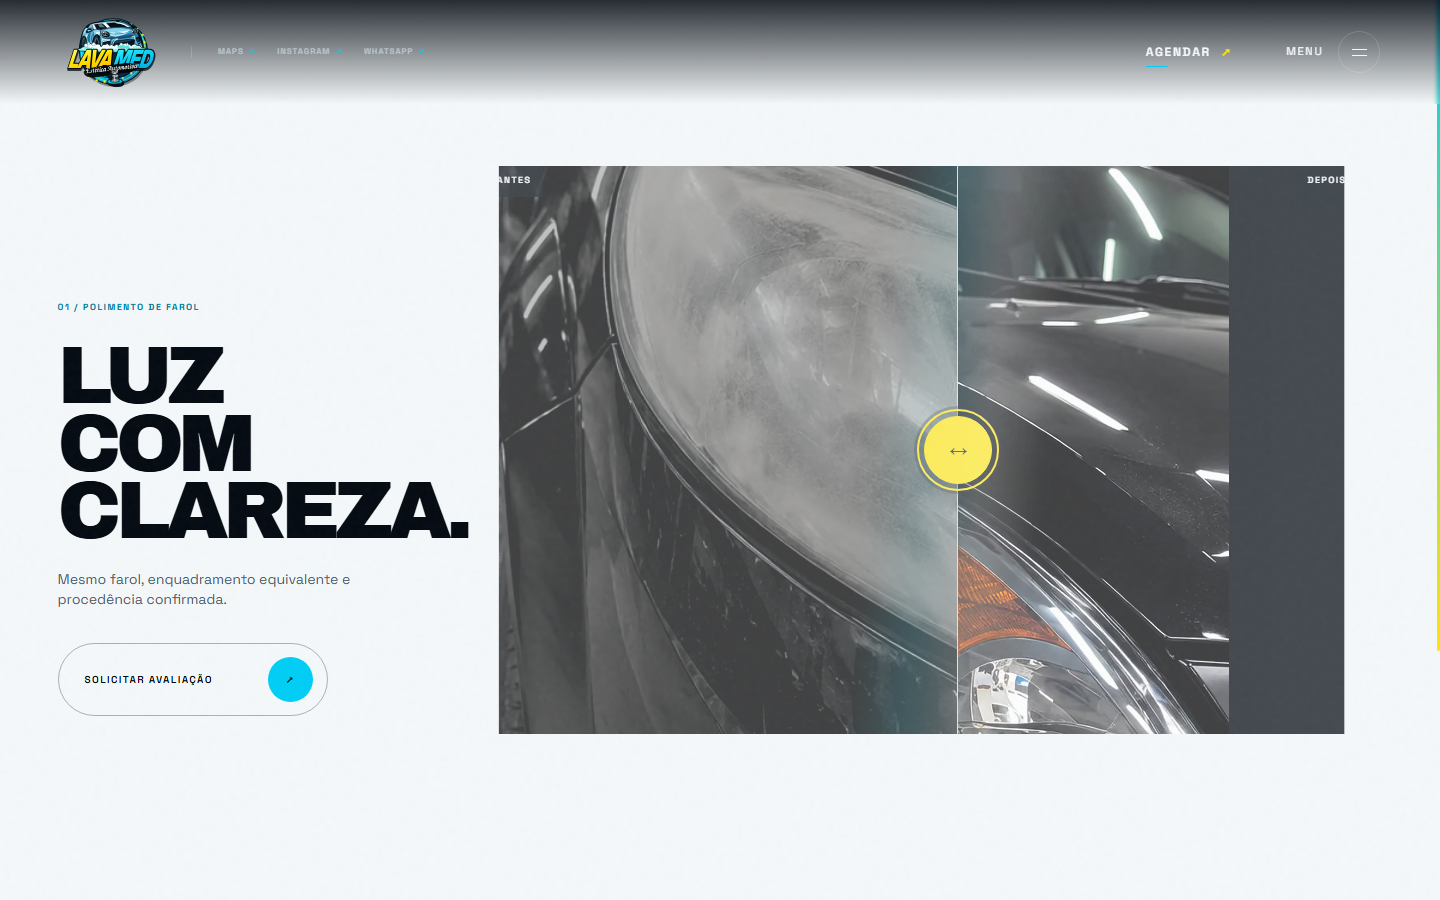
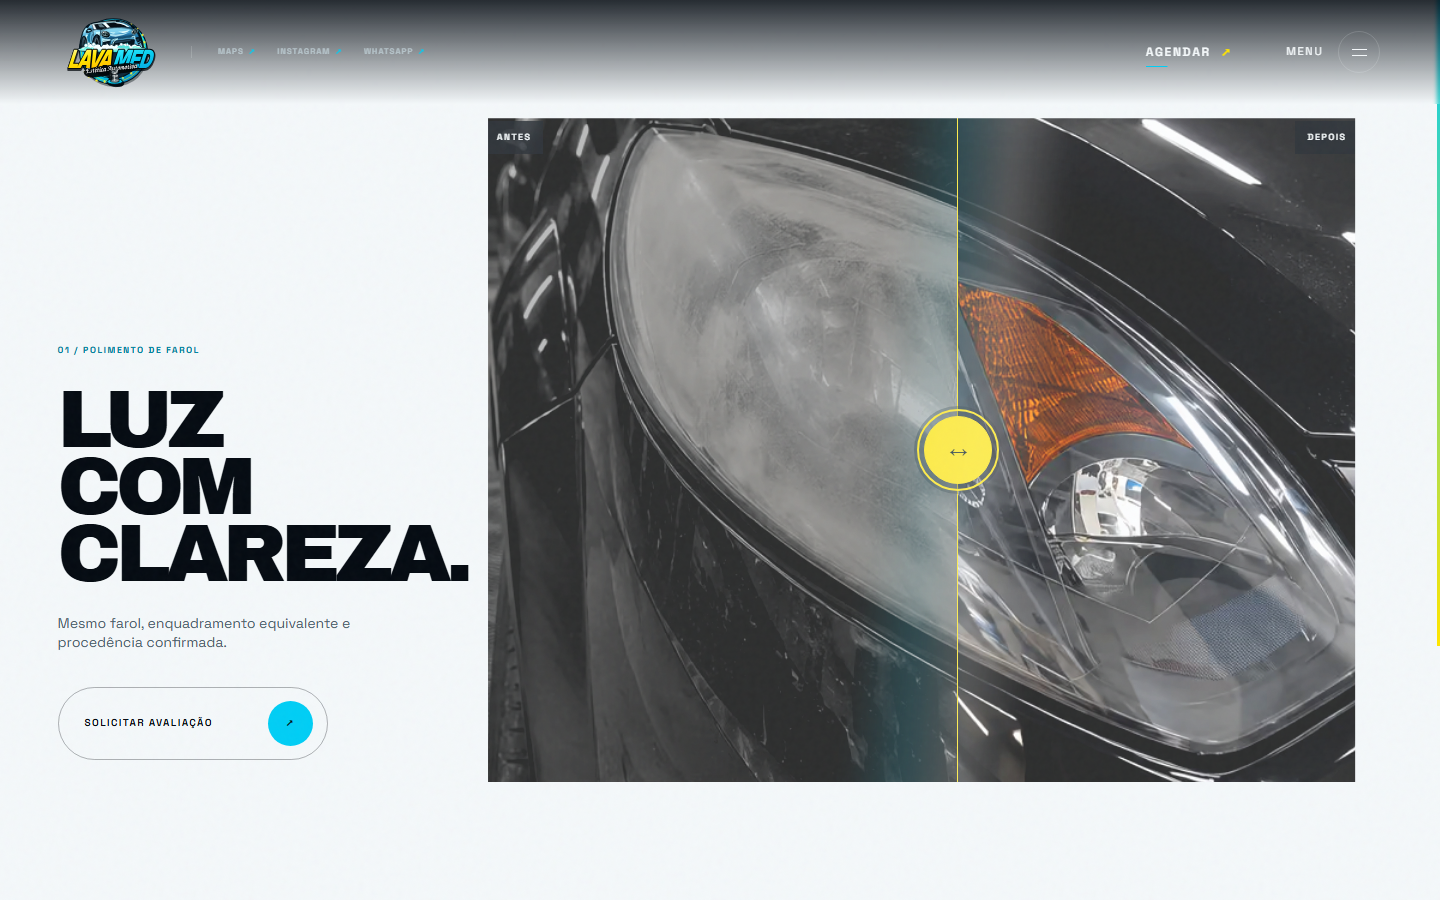
Atualizando 2

diff --git a/src/assets/site.css b/src/assets/site.css
@@ -189,7 +189,7 @@ picture { display: contents; }
 .liquid-intro h2 { color: var(--ink); }.liquid-intro h2 em { color: var(--ink); }
 .liquid-intro>p { grid-column: 2; width: min(540px,80%); margin: 52px 0 0 auto; color: #073a53; }
 .compare { position: relative; width: min(1450px,90vw); height: min(70vw,790px); min-height: 430px; margin: 0 auto; overflow: hidden; background: var(--ink); cursor: ew-resize; touch-action: pan-y; clip-path: polygon(0 0, 96% 0, 100% 7%, 100% 100%, 0 100%); }
-.compare>img,.compare-overlay img { width: 100%; height: 100%; object-fit: cover; user-select: none; pointer-events: none; }
+.compare img { width: 100%; height: 100%; object-fit: cover; user-select: none; pointer-events: none; }
 .compare-base { filter: saturate(1.15) contrast(1.05); }
 .compare-overlay { position: absolute; inset: 0; width: var(--position); overflow: hidden; border-right: 1px solid var(--yellow); }
 .compare-overlay img { max-width: none; width: min(1450px,90vw); filter: grayscale(.88) contrast(1.2) brightness(.68); }
@@ -204,7 +204,7 @@ picture { display: contents; }
 .results-showcase{position:relative;padding:clamp(105px,12vw,195px) 0;overflow:hidden;background:var(--ice);color:var(--ink)}
 .results-heading{display:grid;grid-template-columns:1fr 3fr;gap:40px;padding:0 clamp(22px,7vw,120px)}.results-heading .chapter-label{color:#5e6d74}.results-heading .chapter-label span{border-color:rgba(5,11,18,.2);color:#007f9d}.results-heading h2{margin:0;font:400 clamp(54px,8.4vw,140px)/.82 var(--display);letter-spacing:-.08em;text-transform:uppercase}.results-heading h2 em{color:var(--petrol);font-style:normal}.results-heading>div:last-child>p{width:min(520px,74%);margin:44px 0 0 auto;color:#3e535d;font-size:clamp(14px,1.25vw,18px)}
 .results-feature{--compare-width:min(64vw,1050px);display:grid;grid-template-columns:minmax(270px,1fr) var(--compare-width);align-items:end;gap:clamp(32px,5vw,82px);width:min(1720px,calc(100vw - clamp(44px,8vw,140px)));margin:clamp(90px,11vw,170px) auto 0;scroll-margin-top:var(--header)}.results-copy{padding:0 0 clamp(12px,3vw,44px)}.results-copy>span{color:#0085a3;font-size:9px;font-weight:700;letter-spacing:.16em;text-transform:uppercase}.results-copy h3{margin:24px 0 28px;font:400 clamp(43px,5.7vw,90px)/.82 var(--display);letter-spacing:-.07em;text-transform:uppercase}.results-copy>p{max-width:360px;margin:0 0 34px;color:#4d626c;font-size:14px}.results-copy .cta-pill{width:fit-content;border-color:rgba(5,11,18,.3);color:var(--ink)}
-.results-feature .compare{width:var(--compare-width);height:min(43vw,640px);min-height:430px;margin:0;box-shadow:0 28px 85px rgba(5,11,18,.18)}.results-feature .compare-overlay img{width:var(--compare-width)}.results-feature .compare-label{background:rgba(5,11,18,.82)}.results-feature--cabin{grid-template-columns:var(--compare-width) minmax(270px,1fr)}.results-feature--cabin .results-copy{order:2}.results-feature--cabin .compare{order:1}.results-feature--headlight .compare img{object-position:center}.results-feature--cabin .compare img{object-position:center}.results-link{margin-right:clamp(22px,7vw,120px);color:var(--ink)}
+.results-feature .compare{width:var(--compare-width);height:min(49vw,720px);min-height:460px;margin:0;box-shadow:0 28px 85px rgba(5,11,18,.18)}.results-feature .compare-overlay img{width:var(--compare-width)}.results-feature .compare-label{background:rgba(5,11,18,.82)}.results-feature--cabin{grid-template-columns:var(--compare-width) minmax(270px,1fr)}.results-feature--cabin .results-copy{order:2}.results-feature--cabin .compare{order:1}.results-feature--headlight .compare img{object-position:center}.results-feature--cabin .compare img{object-position:center}.results-link{margin-right:clamp(22px,7vw,120px);color:var(--ink)}
 
 .portfolio { padding: clamp(100px,12vw,200px) 0; overflow: hidden; background: #071018; }
 .portfolio-head { display: grid; grid-template-columns: 1fr 3fr; padding: 0 clamp(22px,7vw,120px); }
@@ -274,14 +274,14 @@ picture { display: contents; }
   .process-heading,.results-heading{grid-template-columns:1fr;gap:48px}.process-heading h2,.results-heading h2{font-size:clamp(50px,12vw,88px)}.process-heading>div:last-child>p,.results-heading>div:last-child>p{width:100%;margin-top:34px}.process-reel{display:flex;align-items:stretch;gap:16px;margin-inline:-22px;padding:0 22px 25px;overflow-x:auto;scroll-snap-type:x mandatory}.process-frame,.process-frame--1,.process-frame--2,.process-frame--3{flex:0 0 82vw;width:82vw;height:105vw;grid-column:auto;grid-row:auto;scroll-snap-align:center}.process-status{grid-template-columns:auto 1fr}.process-status i{display:none}
   .services-heading{gap:48px}.services-layout{grid-template-columns:1fr}.services-visual{position:relative;top:auto;height:70vh;max-height:650px}.service-row{min-height:94px}.service-row h3{font-size:clamp(23px,7vw,39px)}
   .liquid-intro{gap:48px;padding-inline:22px}.liquid-intro>p{grid-column:1;width:100%;margin-top:38px}.compare{width:calc(100vw - 28px);height:70vh;min-height:460px}.compare-overlay img{width:calc(100vw - 28px)}
-  .results-feature,.results-feature--cabin{--compare-width:calc(100vw - 36px);grid-template-columns:1fr;width:calc(100vw - 36px);gap:30px;margin-top:85px}.results-feature--cabin .results-copy,.results-feature--cabin .compare{order:initial}.results-feature .compare{height:72vw;min-height:360px}.results-copy{padding:0}.results-copy h3{font-size:clamp(44px,12vw,80px)}.results-copy>p{max-width:500px}.results-link{margin-right:18px}
+  .results-feature,.results-feature--cabin{--compare-width:calc(100vw - 36px);grid-template-columns:1fr;width:calc(100vw - 36px);gap:30px;margin-top:85px}.results-feature--cabin .results-copy,.results-feature--cabin .compare{order:initial}.results-feature .compare{height:82vw;min-height:360px}.results-copy{padding:0}.results-copy h3{font-size:clamp(44px,12vw,80px)}.results-copy>p{max-width:500px}.results-link{margin-right:18px}
   .portfolio-head{gap:48px}.gallery-wide{width:84vw;height:60vw}.gallery-tall{width:65vw;height:90vw}.gallery-close{width:78vw;height:57vw}.gallery-placeholder{width:68vw;height:88vw}.gallery-statement{width:70vw}.final-content{padding-inline:22px}.final-content h2{font-size:clamp(49px,13vw,90px)}.final-signature{align-self:flex-start;font-size:27vw}
   .footer-grid{grid-template-columns:1fr 1fr}.footer-contact{grid-column:1/-1}.content-grid,.contact-panel{grid-template-columns:1fr}.page-hero{padding-inline:22px}.page-hero--split .page-hero-media,.page-hero--aperture .page-hero-media,.page-hero--vertical .page-hero-media,.page-hero--quiet .page-hero-media{inset:0;width:auto;clip-path:none;opacity:.62}.page-hero--split::after,.page-hero--aperture::after,.page-hero--vertical::after,.page-hero--quiet::after{background:linear-gradient(0deg,#071018 5%,rgba(5,11,18,.18) 85%,rgba(5,11,18,.7))}.page-hero--split .page-title{max-width:100%}.page-hero--split .page-deck{width:100%}.page-hero-code{display:none}.page-deck{width:100%;margin-left:0}.media-provenance{right:14px;bottom:14px;max-width:80vw}.content-section{padding-inline:22px}.process-item{grid-template-columns:40px 1fr}.process-item p{grid-column:2}.directory-row{grid-template-columns:45px 1fr 45px;min-height:105px}.portfolio-grid{grid-template-columns:1fr}.portfolio-card,.portfolio-card--tall,.portfolio-card--close{grid-column:1;min-height:78vw}.portfolio-card--tall{min-height:118vw}
   .catalog-intro,.catalog-group-head{grid-template-columns:1fr}.catalog-intro p{margin-left:0}.catalog-row{grid-template-columns:38px minmax(0,1fr) 44px;gap:16px}.catalog-row>strong{grid-column:2;text-align:left}.catalog-row>i{grid-column:3;grid-row:1/3}.catalog-group-head{gap:20px}.scope-list article,.modality-list article{grid-template-columns:40px 1fr}.scope-list p,.modality-list p{grid-column:2}.service-benefits{grid-template-columns:1fr}.service-pagination{grid-template-columns:1fr 1fr}.service-pagination>a:nth-child(2){display:none}.service-page .page-title{font-size:clamp(48px,12vw,92px)}
 }
 
 @media (max-width: 560px) {
-  .site-header{padding-inline:14px}.site-header .brand{width:66px}.site-header .brand img{height:58px}.site-header .brand-channels{gap:6px;padding-left:8px}.site-header .brand-channels i{display:none}.hero,.hero-copy{min-height:max(820px,100svh)}.hero h1{font-size:13.2vw}.hero .title-indent{padding-left:0;font-size:10.1vw;white-space:nowrap}.eyebrow{max-width:70%}.hero-bottom{align-items:flex-start;flex-direction:column;margin-left:0}.hero-bottom p{max-width:230px}.hero-actions{justify-content:space-between;width:100%}.hero-provenance{max-width:55vw}.manifesto h2,.services-heading h2,.liquid-intro h2,.portfolio-head h2{font-size:12.8vw}.chapter-label{margin-bottom:5px}.process-cinema{padding-inline:18px}.process-reel{margin-inline:-18px;padding-inline:18px}.process-frame,.process-frame--1,.process-frame--2,.process-frame--3{flex-basis:86vw;width:86vw}.process-frame figcaption{left:15px;right:15px}.process-frame figcaption div{max-width:75%}.process-frame small{font-size:8px}.results-showcase{padding-top:95px}.results-heading{padding-inline:18px}.results-copy .cta-pill{width:100%;justify-content:space-between}.services-editorial{padding-inline:18px}.services-visual{height:66vh}.visual-number{font-size:25vw}.service-row{grid-template-columns:32px 1fr 22px;min-height:118px}.service-row small{display:block}.service-row small b{display:block;margin-top:5px}.liquid-section{padding-top:95px}.compare{height:60vh}.results-feature .compare{height:72vw;min-height:300px}.compare-label{top:14px}.compare-label.before{left:14px}.compare-label.after{right:14px}.compare-handle{width:56px;height:56px;margin:-28px}.gallery-progress{margin-inline:22px;width:calc(100vw - 44px)}.footer-top{display:block}.footer-top p{margin-top:30px}.footer-grid{grid-template-columns:1fr}.footer-contact{grid-column:auto}.footer-bottom{gap:20px;flex-wrap:wrap}.page-title{font-size:15vw}.page-deck{font-size:15px}.content-copy h2{font-size:11vw}.empty-state{padding:30px 22px}.catalog-row{min-height:150px}.catalog-name p{display:none}.catalog-row>strong{font-size:10px}.service-price-band{align-items:flex-start;flex-direction:column}.service-price-band strong{text-align:left}.service-benefits h2{font-size:13vw}.service-pagination{padding-inline:18px}.service-pagination span{font-size:9px}.visual-caption{right:18px;left:18px;bottom:18px}.visual-caption [data-service-media-label]{display:none}
+  .site-header{padding-inline:14px}.site-header .brand{width:66px}.site-header .brand img{height:58px}.site-header .brand-channels{gap:6px;padding-left:8px}.site-header .brand-channels i{display:none}.hero,.hero-copy{min-height:max(820px,100svh)}.hero h1{font-size:13.2vw}.hero .title-indent{padding-left:0;font-size:10.1vw;white-space:nowrap}.eyebrow{max-width:70%}.hero-bottom{align-items:flex-start;flex-direction:column;margin-left:0}.hero-bottom p{max-width:230px}.hero-actions{justify-content:space-between;width:100%}.hero-provenance{max-width:55vw}.manifesto h2,.services-heading h2,.liquid-intro h2,.portfolio-head h2{font-size:12.8vw}.chapter-label{margin-bottom:5px}.process-cinema{padding-inline:18px}.process-reel{margin-inline:-18px;padding-inline:18px}.process-frame,.process-frame--1,.process-frame--2,.process-frame--3{flex-basis:86vw;width:86vw}.process-frame figcaption{left:15px;right:15px}.process-frame figcaption div{max-width:75%}.process-frame small{font-size:8px}.results-showcase{padding-top:95px}.results-heading{padding-inline:18px}.results-copy .cta-pill{width:100%;justify-content:space-between}.services-editorial{padding-inline:18px}.services-visual{height:66vh}.visual-number{font-size:25vw}.service-row{grid-template-columns:32px 1fr 22px;min-height:118px}.service-row small{display:block}.service-row small b{display:block;margin-top:5px}.liquid-section{padding-top:95px}.compare{height:60vh}.results-feature .compare{height:82vw;min-height:320px}.compare-label{top:14px}.compare-label.before{left:14px}.compare-label.after{right:14px}.compare-handle{width:56px;height:56px;margin:-28px}.gallery-progress{margin-inline:22px;width:calc(100vw - 44px)}.footer-top{display:block}.footer-top p{margin-top:30px}.footer-grid{grid-template-columns:1fr}.footer-contact{grid-column:auto}.footer-bottom{gap:20px;flex-wrap:wrap}.page-title{font-size:15vw}.page-deck{font-size:15px}.content-copy h2{font-size:11vw}.empty-state{padding:30px 22px}.catalog-row{min-height:150px}.catalog-name p{display:none}.catalog-row>strong{font-size:10px}.service-price-band{align-items:flex-start;flex-direction:column}.service-price-band strong{text-align:left}.service-benefits h2{font-size:13vw}.service-pagination{padding-inline:18px}.service-pagination span{font-size:9px}.visual-caption{right:18px;left:18px;bottom:18px}.visual-caption [data-service-media-label]{display:none}
 }
 
 @media (pointer: coarse) { .cursor{display:none}.magnetic{transform:none!important} }

diff --git a/README.md b/README.md
@@ -82,6 +82,7 @@ Use `npm run test:domains` para validar automaticamente os cenários local, prov
 - [Home mobile 390 × 844](docs/screenshots/home-mobile.png)
 - [Processo documental](docs/screenshots/process-cinema.png)
 - [Comparador em destaque na home](docs/screenshots/home-comparison.png)
+- [Comparador de higienização no mesmo ângulo](docs/screenshots/home-cabin-comparison.png)
 - [Portfólio horizontal na home](docs/screenshots/home-portfolio.png)
 - [Encerramento cinematográfico](docs/screenshots/final-scene.png)
 - [Catálogo desktop](docs/screenshots/catalog-desktop.png)
